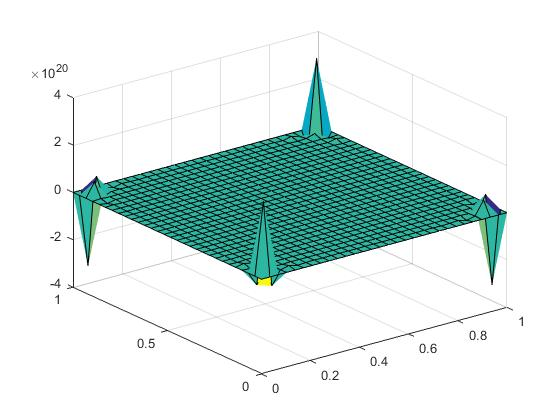
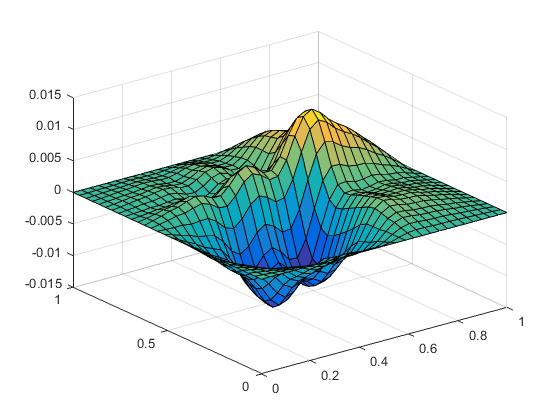
fix codes

diff --git a/poisson_main_part2.m b/poisson_main_part2.m
@@ -5,7 +5,7 @@ matrix_size_1d = zeros(1, length(m));
 
 for i = 1:length(m)
     [A, b] = poisson.getmatvec(m(i), flag);
-    matrix_size_1d(i) = length(A);
+    matrix_size_1d(i) = length(A)^2;
     tic;
     [L, U] = mylu (A);
     toc;
@@ -14,14 +14,23 @@ end
 
 figure;
 loglog(matrix_size_1d, time_elapsed)
+log_x = log(matrix_size_1d);
+log_y = log(time_elapsed);
+fit_model=fit(transpose(log_x), transpose(log_y), 'poly1');
+% p = polyfit(matrix_size_1d,time_elapsed,1);
+% time_fit = polyval(p, matrix_size_1d);
+hold on;
+plot(fit_model,matrix_size_1d, time_elapsed)
 
+
+%%%%%%%
 m = [10:2:30];
 
 time_elapsed_fwd = zeros(1,length(m));
 matrix_size_1d = zeros(1, length(m));
 for i = 1:length(m)
     [A, b] = poisson.getmatvec(m(i), flag);
-    matrix_size_1d(i) = length(A);
+    matrix_size_1d(i) = length(A)^2;
     tic;
     L = myforwardsub(A, b);
     toc;
@@ -29,4 +38,15 @@ for i = 1:length(m)
 end
 figure;
 loglog(matrix_size_1d, time_elapsed_fwd);
-
+log_x = log(matrix_size_1d);
+log_y = log(time_elapsed_fwd);
+fit_model=fit(transpose(log_x), transpose(log_y), 'poly1');
+% p = polyfit(matrix_size_1d,time_elapsed,1);
+% time_fit = polyval(p, matrix_size_1d);
+hold on;
+plot(fit_model,matrix_size_1d, time_elapsed_fwd)
+% hold on;
+% p1 = 0.4787;
+% p2 = -11.81;
+% f = @(x) p1*log(x) + p2 ;
+% fplot (f)

diff --git a/main_poisson.m b/main_poisson.m
@@ -52,23 +52,23 @@ flag = 0;
 [A1, b1] = poisson.getmatvec(m, flag);
 
 %x1 = mylinearsolver(A1, b1);
-x1=b1\A1;
+x1=A1\b1;
 poisson.vizsoln(x1,flag);
-%%%%%%%%%%%%
+%%%%%%%%%%%
 m = 3 ;
 flag = 1;
 [A2, b2] = poisson.getmatvec(m, flag);
 
 %x2 = mylinearsolver(A2, b2);
-x2=b2\A2;
+x2=A2\b2;
 poisson.vizsoln(x2,flag);
-%%%%%%%%%%%
+%%%%%%%%%%
 m = 9 ;
 flag = 0;
 [A3, b3] = poisson.getmatvec(m, flag);
 
 %x3 = mylinearsolver(A3, b3);
-x3=b3\A3;
+x3=A3\b3;
 poisson.vizsoln(x3,flag);
 %%%%%%%%%%%%%
 m = 9 ;
@@ -76,15 +76,15 @@ flag = 1;
 [A4, b4] = poisson.getmatvec(m, flag);
 
 %x4 = mylinearsolver(A4, b4);
-x4=b4\A4;
+x4=A4\b4;
 poisson.vizsoln(x4,flag);
-%%%%%%%%%%%
+%%%%%%%%%%
 m = 18 ;
 flag = 0;
 [A5, b5] = poisson.getmatvec(m, flag);
 
-%x5 = mylinearsolver(A5, b5);
-x5 = b5\A5;
+x5 = mylinearsolver(A5, b5);
+x5 = A5\b5;
 poisson.vizsoln(x5,flag);
 %%%%%%%%%
 m = 18 ;
@@ -92,7 +92,7 @@ flag = 1;
 [A6, b6] = poisson.getmatvec(m, flag);
 
 %x6 = mylinearsolver(A6, b6);
-x6 = b6\A6;
+x6 = A6\b6;
 poisson.vizsoln(x6,flag);
 
 

diff --git a/maon_regression.m b/maon_regression.m
@@ -81,8 +81,8 @@ Interv_I1 = I_1_higher - I_1_lower;
 half_I1 = Interv_I1/2;
 
 % confidence interval associated with beta2 = c
-I_2_lower = c - (1.9720)*sqrt(big_sigma_hat(3,3));
-I_2_higher = c + (1.9720)*sqrt(big_sigma_hat(3,3));
+I_2_lower = c - (1.96)*sqrt(big_sigma_hat(3,3));
+I_2_higher = c + (1.96)*sqrt(big_sigma_hat(3,3));
 Interv_I2 = I_2_higher - I_2_lower;
 half_I2 = Interv_I2/2;
 % where m-2 is 199 and t_gamma,m-2 is 1.9720 from the t-tables

diff --git a/main.m b/main.m
@@ -1,9 +1,9 @@
-% A = [2 1 0
-%      -1 2 -1
-%      0 -1 3];
-A = [2 1 1
-    4 3 3
-    8 7 10];
+A = [2 1 0
+     -1 2 -1
+     0 -1 3];
+% A = [2 1 1
+%     4 3 3
+%     8 7 10];
 
 b = [1;-1;3];
 
